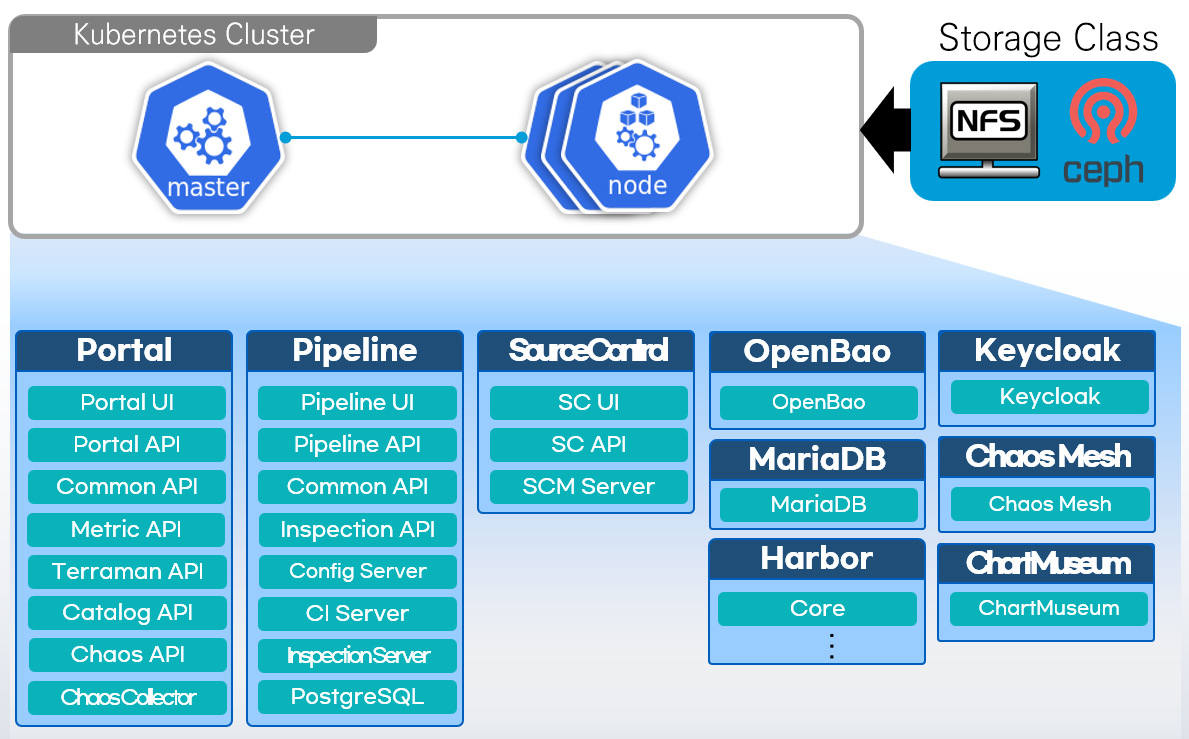
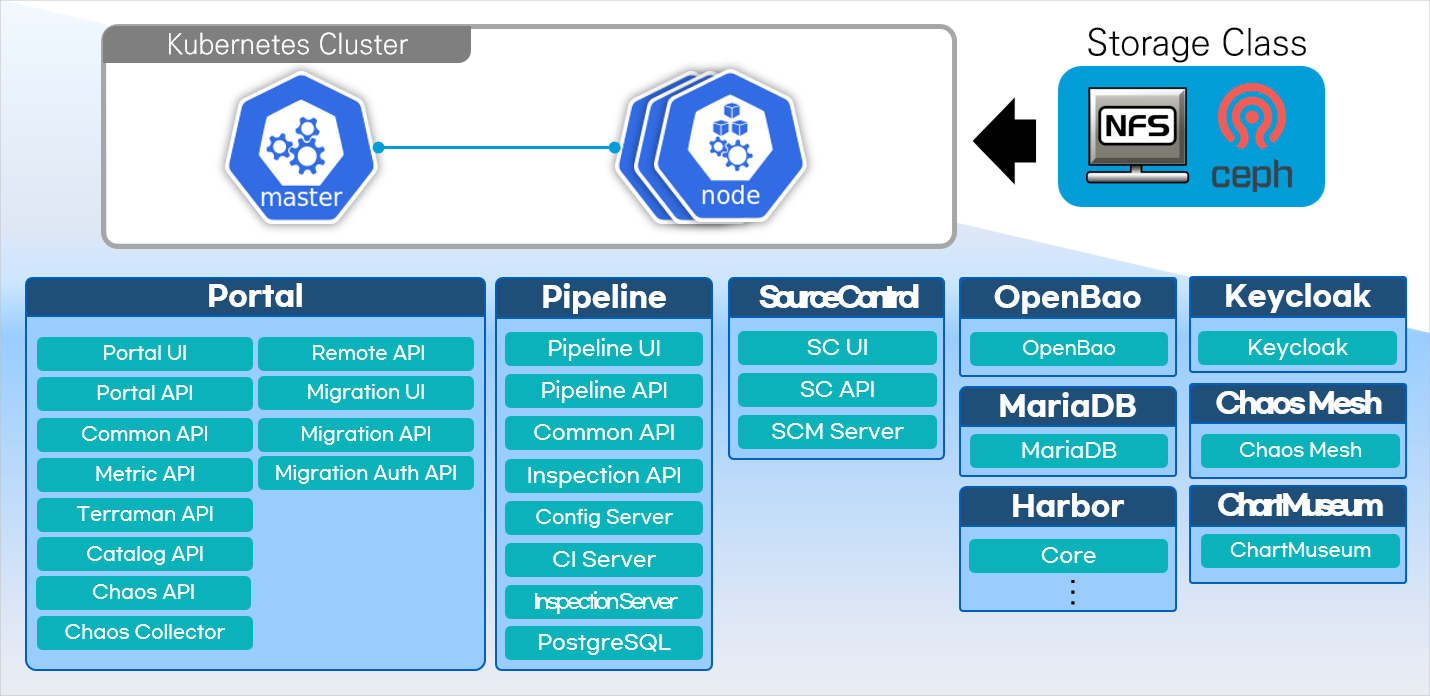
update portal v1.7.0 images

diff --git a/install-guide/portal/cp-portal-standalone-guide-fed.md b/install-guide/portal/cp-portal-standalone-guide-fed.md
@@ -42,7 +42,7 @@
 <br>
 
 ### <span id='1.3'>1.3. 시스템 구성도
-<p align="center"><img src="../images/portal/cp-001.png" width="850" height="530"></p>
+<p align="center"><img src="../images/portal/cp-022.png"></p>
 
 시스템 구성은 **Kubernetes Cluster(Master, Worker)** 환경과 데이터 관리를 위한 스토리지 서버로 구성되어 있다.
 Kubespray를 통해 설치된 Kubernetes Cluster 환경에 비밀 정보 및 인증 데이터를 관리하는 **OpenBao**, 메타 데이터를 관리하는 **MariaDB(RDBMS)**, 컨테이너 이미지를 관리하는 **Harbor**,  컨테이너 플랫폼 포털 사용자 인증을 관리하는 **Keycloak**,

diff --git a/install-guide/portal/cp-portal-standalone-guide-mc.md b/install-guide/portal/cp-portal-standalone-guide-mc.md
@@ -42,7 +42,7 @@
 <br>
 
 ### <span id='1.3'>1.3. 시스템 구성도
-<p align="center"><img src="../images/portal/cp-001.png" width="850" height="530"></p>
+<p align="center"><img src="../images/portal/cp-001.png"></p>
 
 시스템 구성은 **Kubernetes Cluster(Master, Worker)** 환경과 데이터 관리를 위한 스토리지 서버로 구성되어 있다.
 Kubespray를 통해 설치된 Kubernetes Cluster 환경에 비밀 정보 및 인증 데이터를 관리하는 **OpenBao**, 메타 데이터를 관리하는 **MariaDB(RDBMS)**, 컨테이너 이미지를 관리하는 **Harbor**,  컨테이너 플랫폼 포털 사용자 인증을 관리하는 **Keycloak**,

diff --git a/install-guide/portal/cp-portal-standalone-guide.md b/install-guide/portal/cp-portal-standalone-guide.md
@@ -42,7 +42,7 @@
 <br>
 
 ### <span id='1.3'>1.3. 시스템 구성도
-<p align="center"><img src="../images/portal/cp-001.png" width="850" height="530"></p>
+<p align="center"><img src="../images/portal/cp-001.png"></p>
 
 시스템 구성은 **Kubernetes Cluster(Master, Worker)** 환경과 데이터 관리를 위한 스토리지 서버로 구성되어 있다.
 Kubespray를 통해 설치된 Kubernetes Cluster 환경에 비밀 정보 및 인증 데이터를 관리하는 **OpenBao**, 메타 데이터를 관리하는 **MariaDB(RDBMS)**, 컨테이너 이미지를 관리하는 **Harbor**,  컨테이너 플랫폼 포털 사용자 인증을 관리하는 **Keycloak**,

diff --git a/README.md b/README.md
@@ -95,7 +95,7 @@
 - CSP Kubernetes Service 활용
   + [Linkerd 멀티 클러스터 구성 가이드](install-guide/csp/cp-csp-linkerd-guide.md)
 
-### Karmada 기반 Multi Cloud 배포
+### Federation 기반 Multi Cloud 배포
 - 클러스터 설치
   + [클러스터 설치 가이드](install-guide/standalone/cp-cluster-install-federation.md)
 - 포털 설치

diff --git a/install-guide/README.md b/install-guide/README.md
@@ -35,7 +35,7 @@
 - CSP Kubernetes Service 활용
   + [Linkerd 멀티 클러스터 구성 가이드](csp/cp-csp-linkerd-guide.md)
 
-### Karmada 기반 Multi Cloud 배포
+### Federation 기반 Multi Cloud 배포
 - 클러스터 설치
   + [클러스터 설치 가이드](standalone/cp-cluster-install-federation.md)
 - 포털 설치
